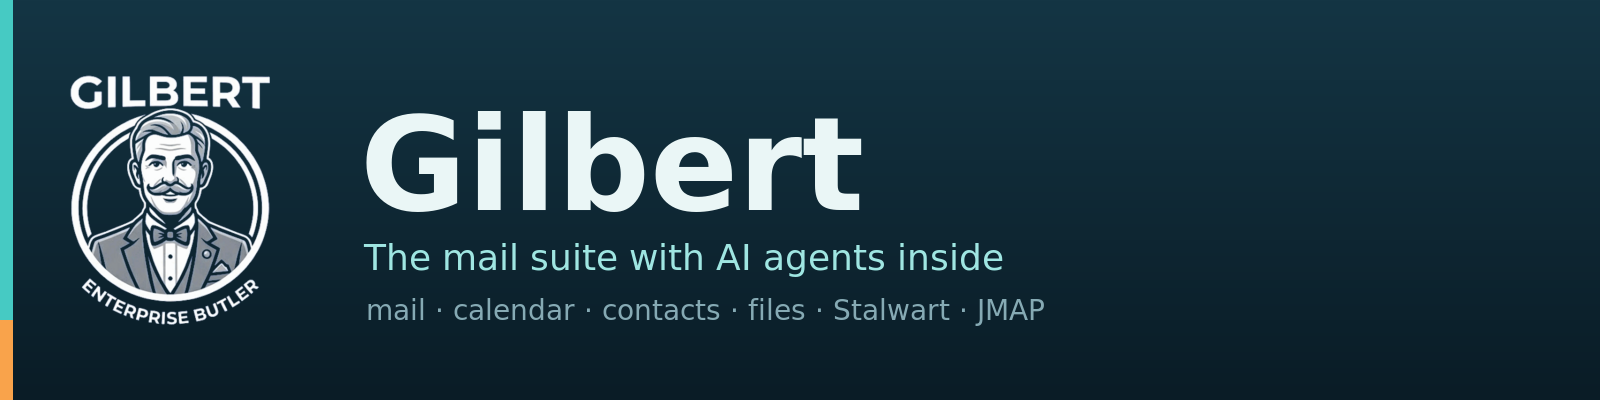
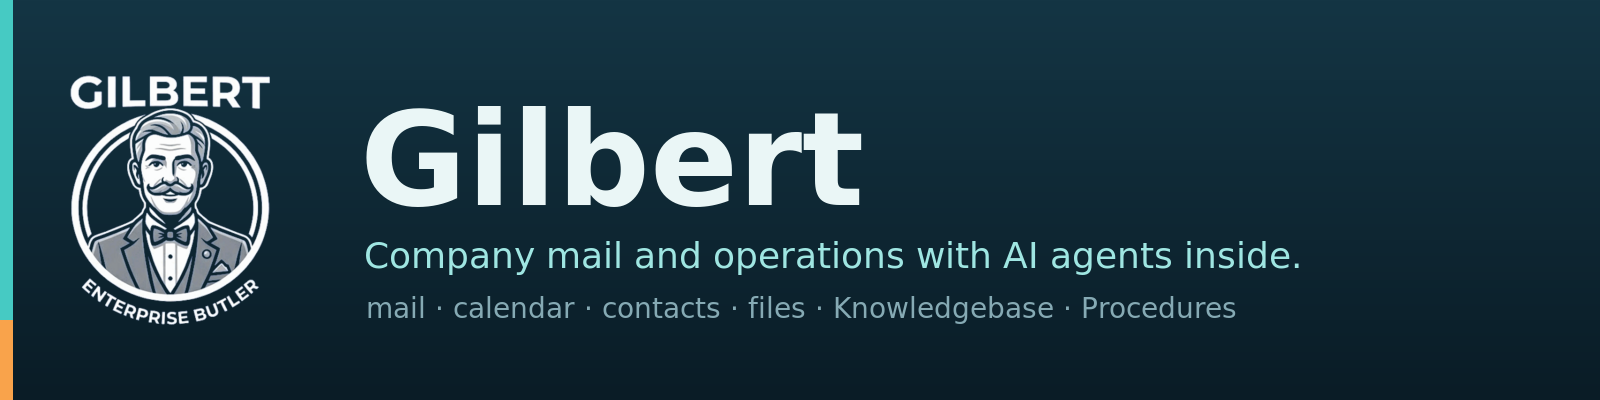
docs: refine the product description

diff --git a/README.md b/README.md
@@ -19,19 +19,20 @@
 **G**eneral-purpose **I**ntelligent **L**ifecycle **B**utler for **E**nterprise
 **R**esource **T**raceability.
 
-Gilbert is a self-hosted mail suite — mail, calendars, contacts, files — with
-**AI agents inside it**. Agents read incoming mail and files, file documents
-into the right folder, read the document inside them, draft replies and report
-what they did in the group's chat. What they may do is a capability list an
-administrator writes and code enforces; every effect is recorded before it
-happens; and anything that leaves the group waits for a person to approve it,
-in words.
+Gilbert is **company mail and operations with AI agents inside** — self-hosted
+mail, calendar, contacts and files, a knowledge base and the procedures a job
+follows. Agents read incoming mail and files, file documents into the right
+folder, read the document inside them, draft replies and report what they did in
+the group's chat. What they may do is a capability list an administrator writes
+and code enforces; every effect is recorded before it happens; and anything that
+leaves the group waits for a person to approve it, in words.
 
-Everything Gilbert keeps — mail, files, rules, audit trail — is a document in
-your own [Stalwart](https://stalw.art) mail server, under the account it belongs
-to. There is no Gilbert database: no index, no cache tier, no writable disk,
-nothing to back up twice, and a redeploy that loses nothing. The only thing that
-leaves the installation is the model call the installation itself configures.
+Everything Gilbert keeps — mail, files, the knowledge base, rules, audit trail —
+is a document in your own [Stalwart](https://stalw.art) mail server, under the
+account it belongs to. There is no Gilbert database: no index, no cache tier, no
+writable disk, nothing to back up twice, and a redeploy that loses nothing. The
+only thing that leaves the installation is the model call the installation itself
+configures.
 
 ## Who it is for
 
@@ -90,12 +91,12 @@ The short version; [FEATURES.md](FEATURES.md) is the inventory.
   by the group; chat is one conversation per group in that account; **Global
   contacts** is one directory the installation owns and every account reads.
 - **A knowledge base and workorders** (Gilbert's own modules): a company-wide KB
-  and one per group, with a shared draft, an administrator's approval and every
-  issued revision kept; checklist templates authored with a **checklist builder**
-  — a choice that holds throughout, sections that differ by it, a section that
-  loops per item and a section assigned to a group, not markup; and workorders
-  that gather the folders, files and pages of one job with a checklist bound to a
-  KB template.
+  and one per group, holding the company's policies and procedures, with a shared
+  draft, an administrator's approval and every issued revision kept; checklist
+  templates authored with a **checklist builder** — a choice that holds
+  throughout, sections that differ by it, a section that loops per item and a
+  section assigned to a group, not markup; and workorders that gather the
+  folders, files and pages of one job with a checklist bound to a KB template.
 - **A mail client you would keep anyway.** Three-pane and keyboard-driven, with
   conversations, labels, search grammar, undo send, scheduled send, read
   receipts, S/MIME signature checking, calendars with invitations and free/busy,
